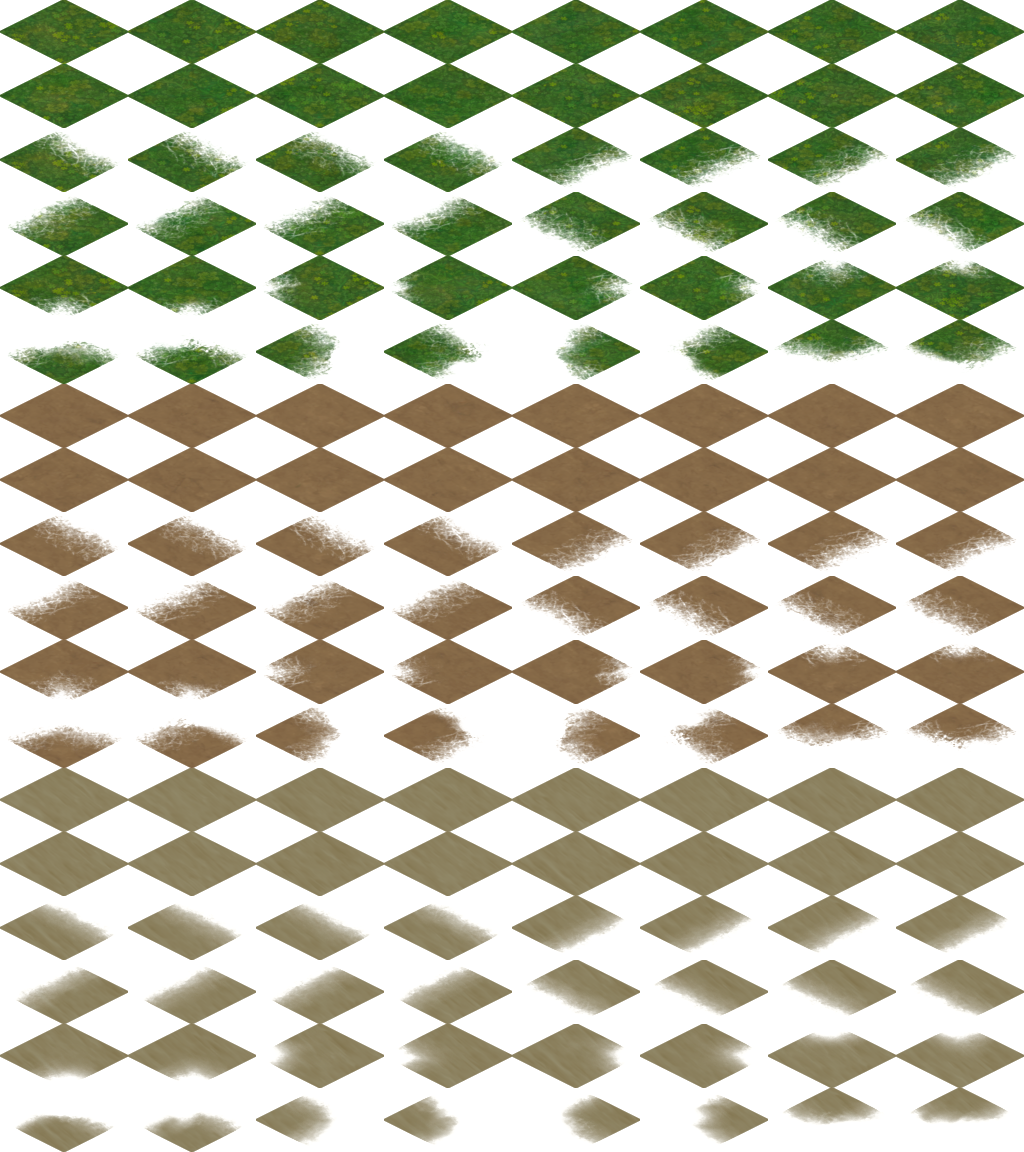
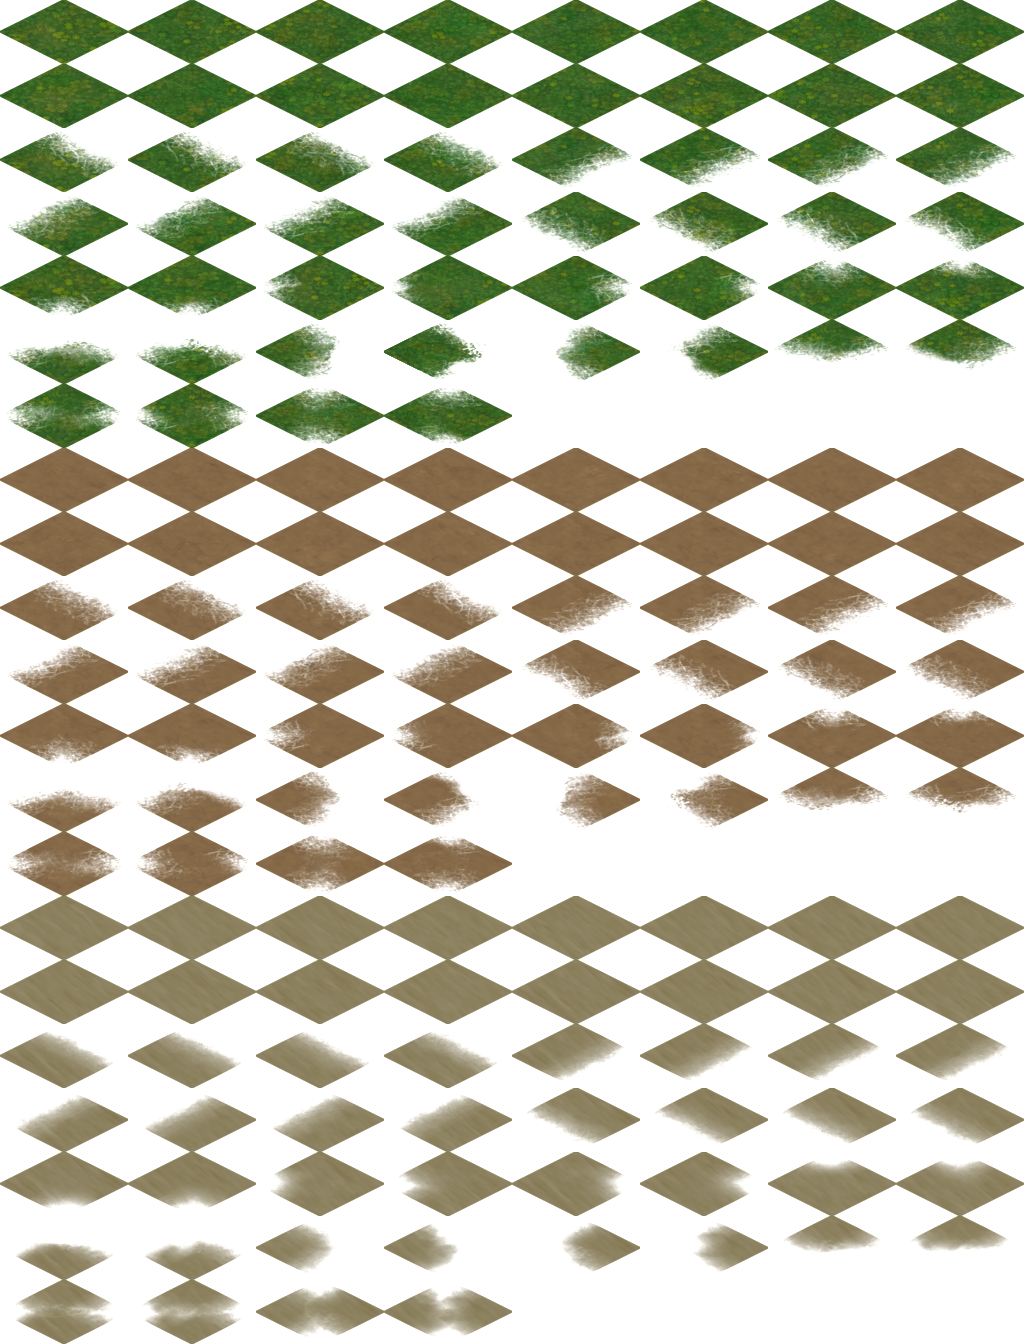
Add some kitty-corner ground tiles

diff --git a/test/tilemap_isometric2.html b/test/tilemap_isometric2.html
@@ -1,15 +1,18 @@
 <link rel="stylesheet" href="../styles.css">
 <script type="module">
   const tileMap = [
-    [ 2, 2, 1, 1, 1, 1, 1, 1, 1 ],
-    [ 2, 2, 1, 1, 1, 1, 1, 1, 1 ],
-    [ 1, 1, 1, 1, 0, 1, 1, 1, 1 ],
-    [ 1, 1, 1, 0, 0, 0, 1, 1, 1 ],
-    [ 1, 1, 0, 0, 1, 0, 0, 1, 1 ],
-    [ 1, 1, 1, 0, 0, 0, 1, 1, 1 ],
-    [ 1, 1, 1, 1, 0, 1, 1, 1, 1 ],
-    [ 1, 1, 1, 1, 1, 1, 1, 1, 2 ],
-    [ 1, 1, 1, 1, 1, 1, 1, 2, 2 ],
+    [ 0, 0, 0, 0, 1, 1, 1, 0, 0, 0, 0, 0],
+    [ 0, 0, 0, 0, 0, 0, 0, 1, 1, 1, 0, 0],
+    [ 0, 1, 0, 0, 0, 0, 0, 1, 0, 1, 0, 0],
+    [ 0, 0, 0, 1, 1, 0, 0, 1, 1, 1, 0, 0],
+    [ 1, 0, 0, 1, 1, 0, 0, 0, 0, 0, 0, 0],
+    [ 1, 0, 0, 0, 0, 0, 0, 0, 0, 0, 0, 0],
+    [ 1, 0, 1, 0, 1, 0, 0, 1, 1, 1, 0, 0],
+    [ 0, 0, 0, 1, 0, 0, 0, 1, 2, 1, 0, 0],
+    [ 1, 0, 1, 0, 1, 0, 0, 1, 1, 1, 0, 0],
+    [ 1, 1, 0, 0, 0, 0, 0, 0, 0, 0, 0, 0],
+    [ 1, 1, 0, 0, 0, 0, 0, 0, 0, 0, 0, 0],
+    [ 0, 0, 0, 1, 1, 1, 0, 0, 0, 0, 0, 0],
   ];
 
   
@@ -71,7 +74,7 @@
         // SW: 1
         [
           // NW: 0, NE: 1, SW: 1, SE: 0
-          [],
+          [[0, 6], [1, 6]],
           // NW: 0, NE: 1, SW: 1, SE: 1
           [[2, 4], [3, 4]],
         ]
@@ -86,7 +89,7 @@
           // NW: 1, NE: 0, SW: 0, SE: 0
           [[2, 5], [3, 5]],
           // NW: 1, NE: 0, SW: 0, SE: 1
-          [],
+          [[2, 6], [3, 6]],
         ],
         // SW: 1
         [
@@ -119,8 +122,8 @@
 
   const TileInfo = {
     [Tile.Grass]: fromGroundTemplate(0,  0),
-    [Tile.Dirt]:  fromGroundTemplate(0,  6),
-    [Tile.Sand]:  fromGroundTemplate(0, 12),
+    [Tile.Dirt]:  fromGroundTemplate(0,  7),
+    [Tile.Sand]:  fromGroundTemplate(0, 14),
   }
 
   function fromGroundTemplate(xOffset, yOffset) {
